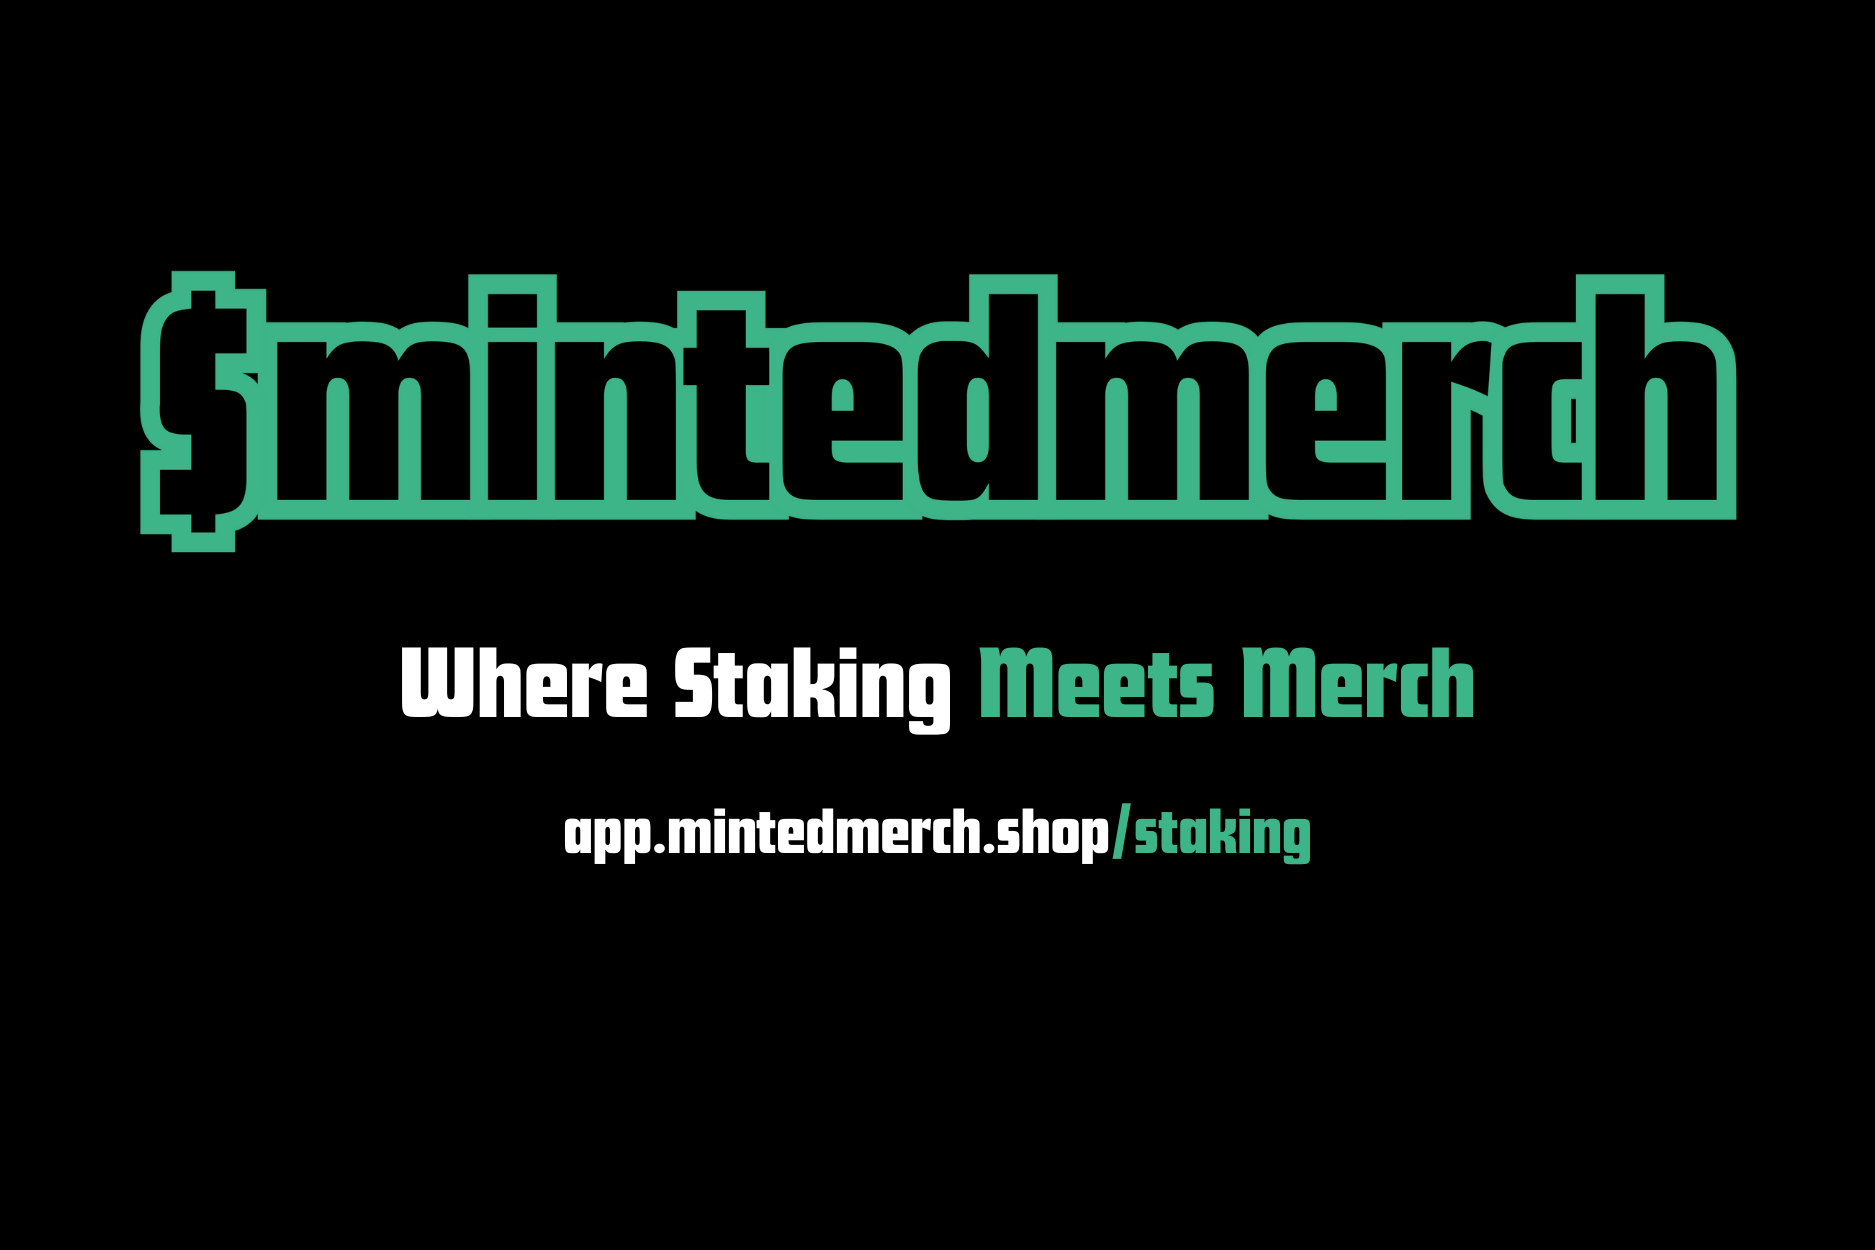
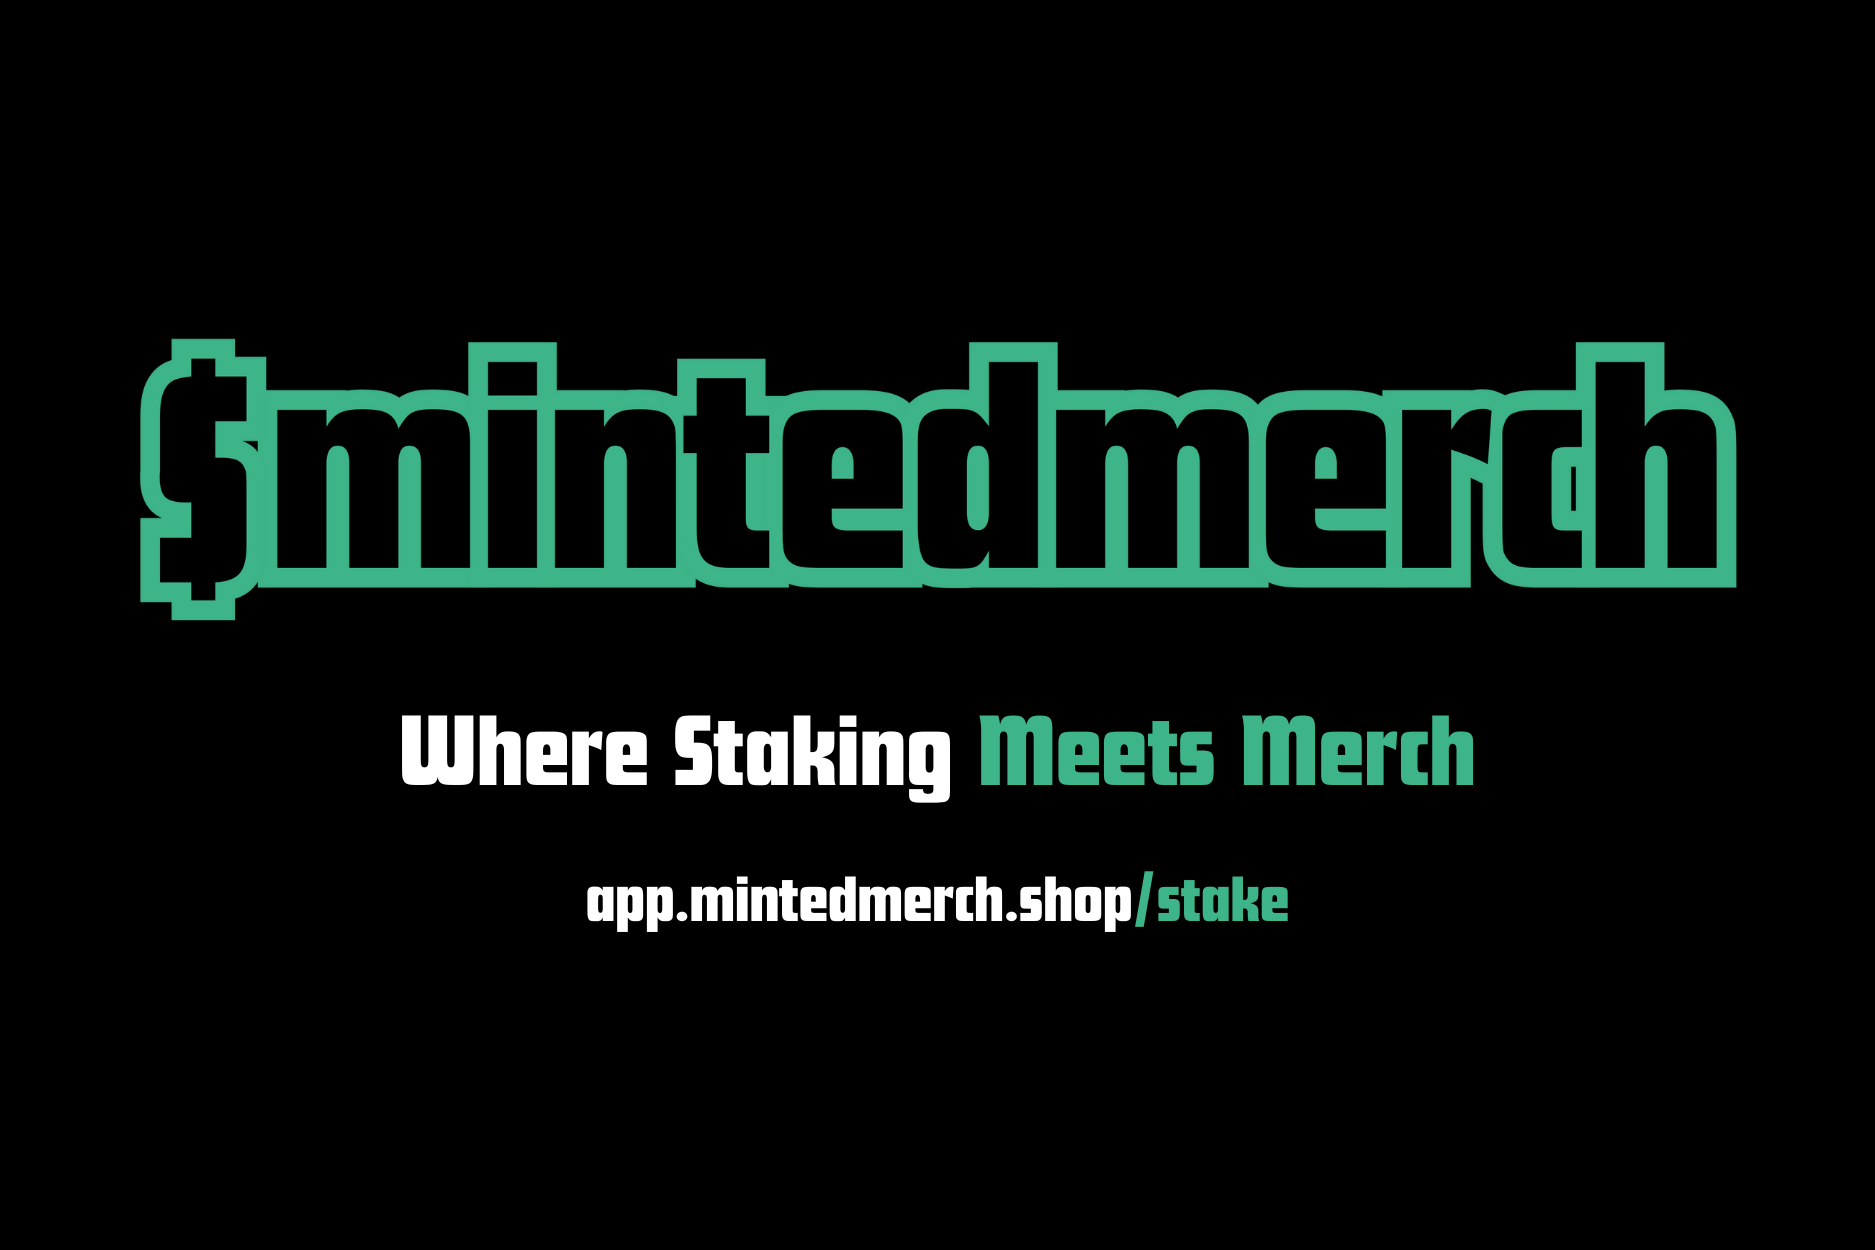
Stake page UI updates
1. Updated StakingEmbedImage.png with new version
2. Changed button text: 'Start Staking' -> 'Spin To Claim' when user has staked
3. Removed spacing above ticker image, reduced spacing below (marginBottom: 16px -> 8px)
4. Removed redundant spinner logo from top of page
5. Simplified OG route to just show custom embed image directly

Changed region(s): [[0.0619, 0.2184, 0.928, 0.4992], [0.2165, 0.4992, 0.8043, 0.7488]]

diff --git a/src/app/api/og/stake/route.js b/src/app/api/og/stake/route.js
@@ -22,20 +22,12 @@ export async function GET(request) {
   try {
     const baseUrl = (process.env.NEXT_PUBLIC_APP_URL || 'https://app.mintedmerch.shop').replace(/\/$/, '');
     
-    // Fetch the custom staking embed image
+    // Fetch the custom staking embed image (user's custom design)
     let stakingImageSrc = null;
     try {
       stakingImageSrc = await fetchImageAsDataUrl(`${baseUrl}/StakingEmbedImage.png`);
     } catch (error) {
       console.error('Error fetching staking image:', error);
-    }
-    
-    // Fetch logo image
-    let logoImageSrc = null;
-    try {
-      logoImageSrc = await fetchImageAsDataUrl(`${baseUrl}/logo.png`);
-    } catch (error) {
-      console.error('Error fetching logo:', error);
     }
     
     return new ImageResponse(
@@ -48,17 +40,15 @@ export async function GET(request) {
             alignItems: 'center',
             justifyContent: 'center',
             backgroundColor: '#000000',
-            position: 'relative',
           }}
         >
-          {/* Main Staking Image - Centered */}
           {stakingImageSrc ? (
             <img
               src={stakingImageSrc}
               alt="Stake $MINTEDMERCH"
               style={{
-                maxWidth: '90%',
-                maxHeight: '90%',
+                width: '100%',
+                height: '100%',
                 objectFit: 'contain',
               }}
             />
@@ -92,43 +82,6 @@ export async function GET(request) {
                 }}
               >
                 $MINTEDMERCH
-              </div>
-            </div>
-          )}
-          
-          {/* Logo in Bottom Right Corner */}
-          {logoImageSrc && (
-            <div
-              style={{
-                position: 'absolute',
-                bottom: '40px',
-                right: '40px',
-                display: 'flex',
-                alignItems: 'center',
-                justifyContent: 'center',
-              }}
-            >
-              <div
-                style={{
-                  width: '80px',
-                  height: '80px',
-                  borderRadius: '12px',
-                  backgroundColor: 'rgba(255, 255, 255, 0.1)',
-                  display: 'flex',
-                  alignItems: 'center',
-                  justifyContent: 'center',
-                  border: '2px solid rgba(255, 255, 255, 0.2)',
-                }}
-              >
-                <img
-                  src={logoImageSrc}
-                  alt="Minted Merch"
-                  style={{
-                    width: '60px',
-                    height: '60px',
-                    objectFit: 'contain',
-                  }}
-                />
               </div>
             </div>
           )}

diff --git a/src/app/stake/StakePageClient.jsx b/src/app/stake/StakePageClient.jsx
@@ -205,15 +205,6 @@ Stake your $mintedmerch now and Spin-to-Claim daily to compound rewards, and hav
         </button>
       </div>
 
-      {/* Logo - Using Spinner Logo, centered */}
-      <div style={{ display: 'flex', justifyContent: 'center', marginBottom: '20px' }}>
-        <img 
-          src="/MintedMerchSpinnerLogo.png" 
-          alt="Minted Merch" 
-          style={{ height: '50px', objectFit: 'contain' }}
-        />
-      </div>
-
       {/* Main Staking Card */}
       <div style={{
         backgroundColor: 'rgba(62, 180, 137, 0.1)',
@@ -225,7 +216,7 @@ Stake your $mintedmerch now and Spin-to-Claim daily to compound rewards, and hav
         {/* Title with image */}
         <div style={{
           textAlign: 'center',
-          marginBottom: '16px'
+          marginBottom: '8px'
         }}>
           <span style={{
             fontSize: '28px',
@@ -235,7 +226,7 @@ Stake your $mintedmerch now and Spin-to-Claim daily to compound rewards, and hav
           }}>
             STAKE TO EARN
           </span>
-          <div style={{ marginTop: '12px' }}>
+          <div>
             <img 
               src="/mintedmerch-logo-ticker.png" 
               alt="$MINTEDMERCH" 
@@ -348,7 +339,7 @@ Stake your $mintedmerch now and Spin-to-Claim daily to compound rewards, and hav
           </div>
         )}
 
-        {/* Stake Button */}
+        {/* Stake Button - Changes based on staking status */}
         <button
           onClick={handleOpenStakingTerminal}
           style={{
@@ -367,7 +358,7 @@ Stake your $mintedmerch now and Spin-to-Claim daily to compound rewards, and hav
             gap: '8px'
           }}
         >
-          {stakingData?.staking?.is_staker ? 'Manage Stake' : 'Start Staking'}
+          {stakingData?.staking?.is_staker ? 'Spin To Claim' : 'Start Staking'}
         </button>
       </div>
 
